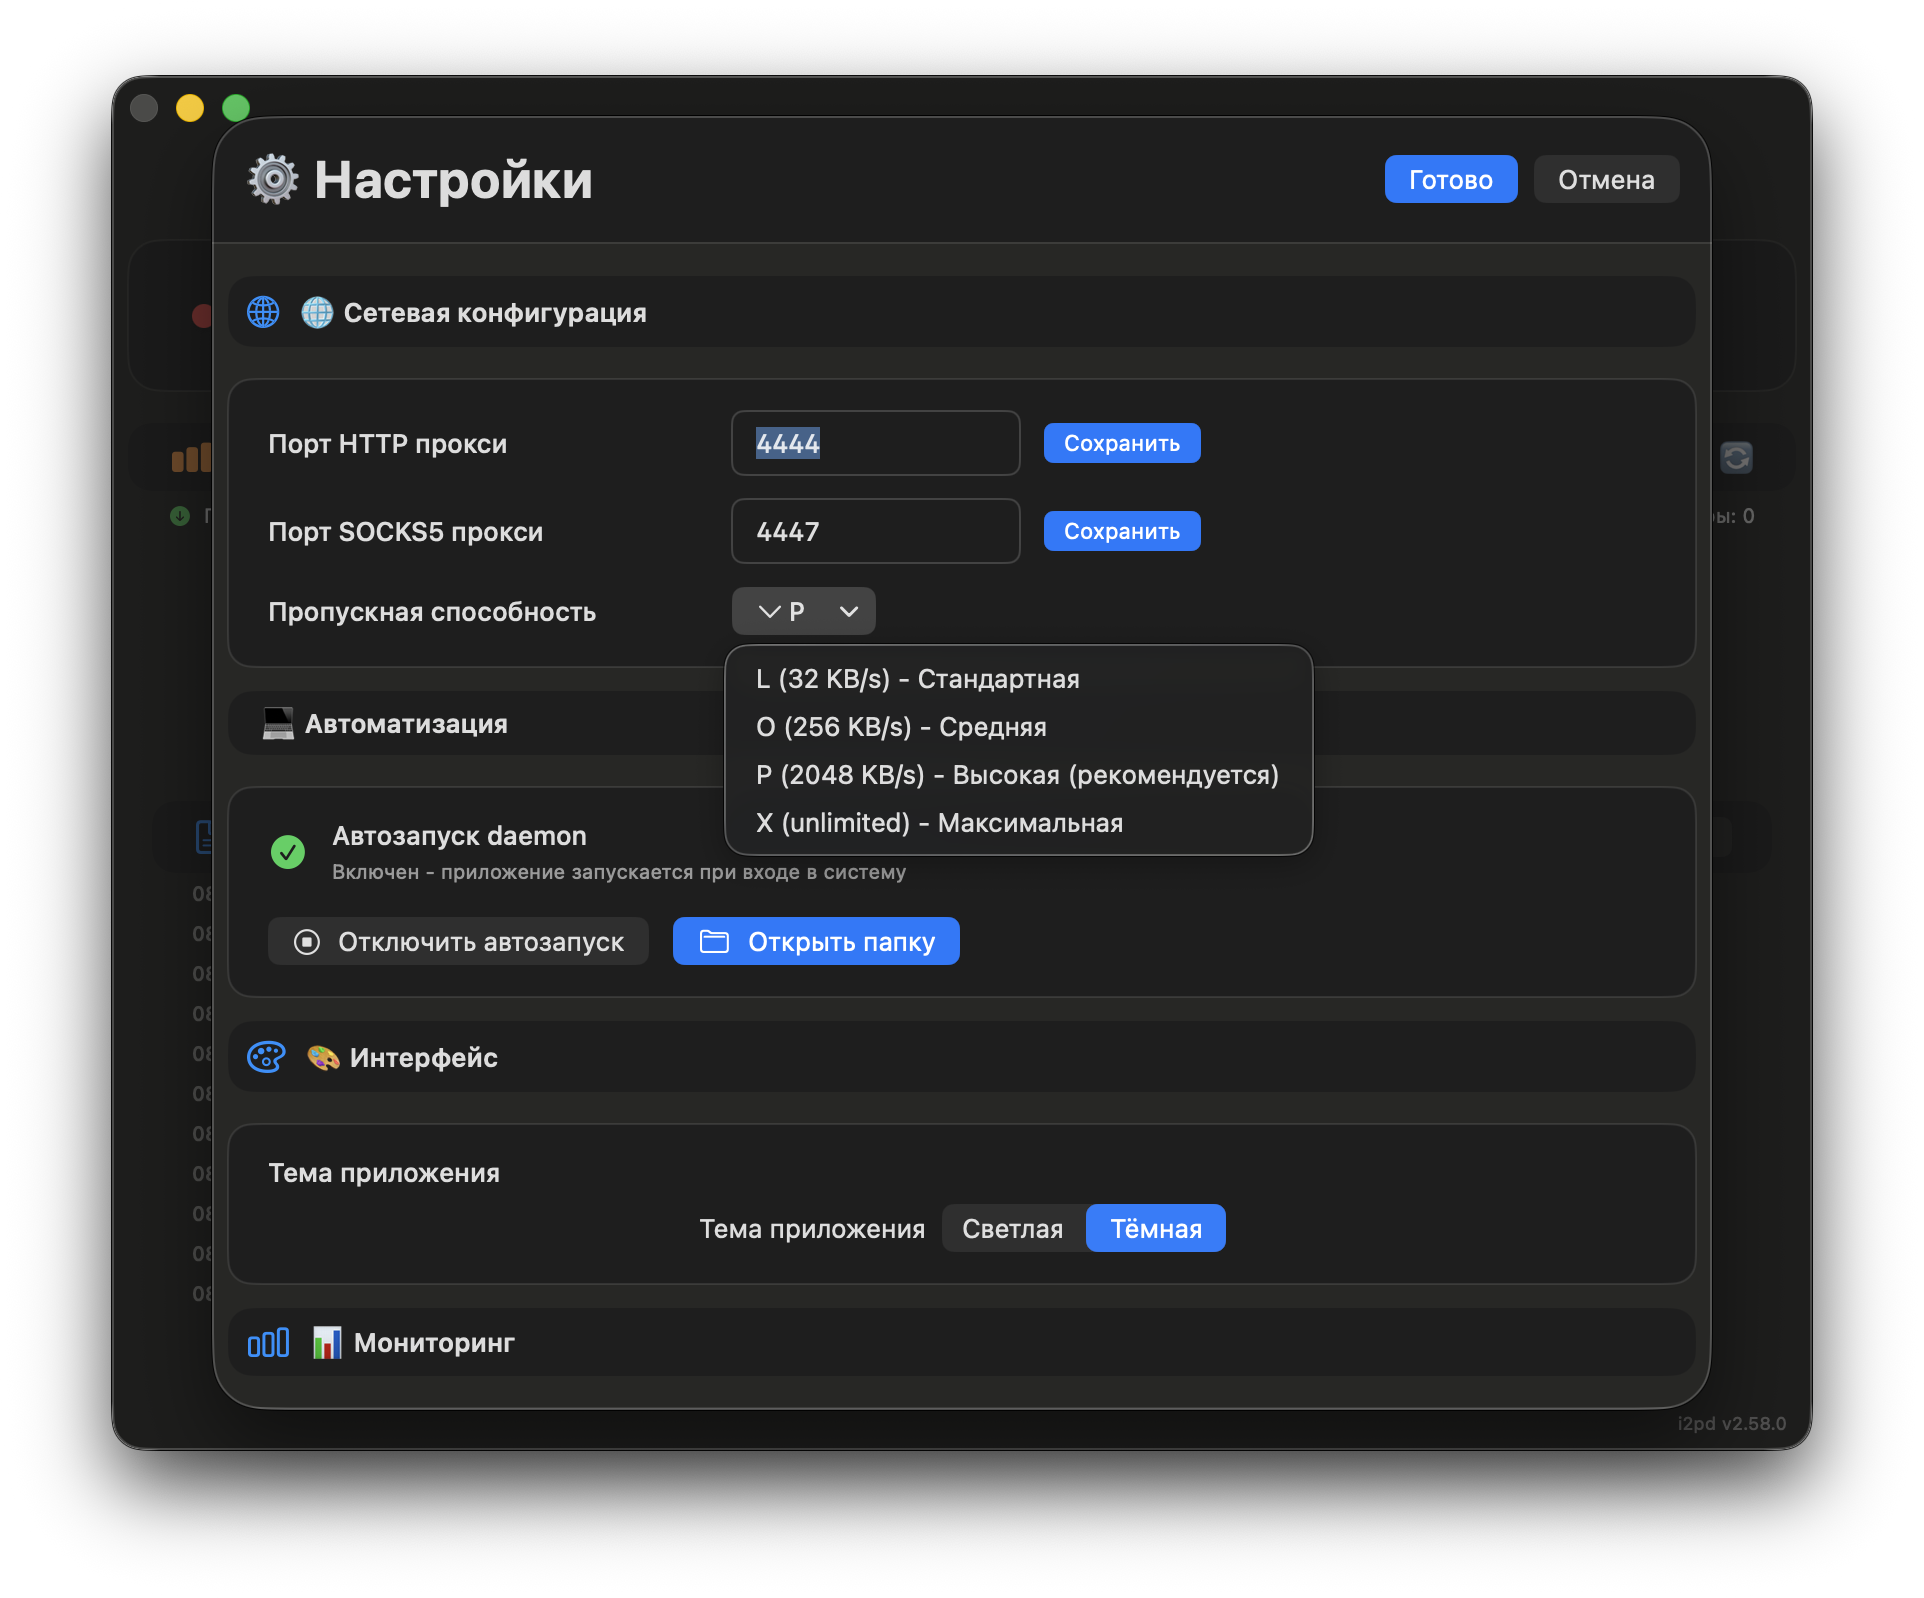
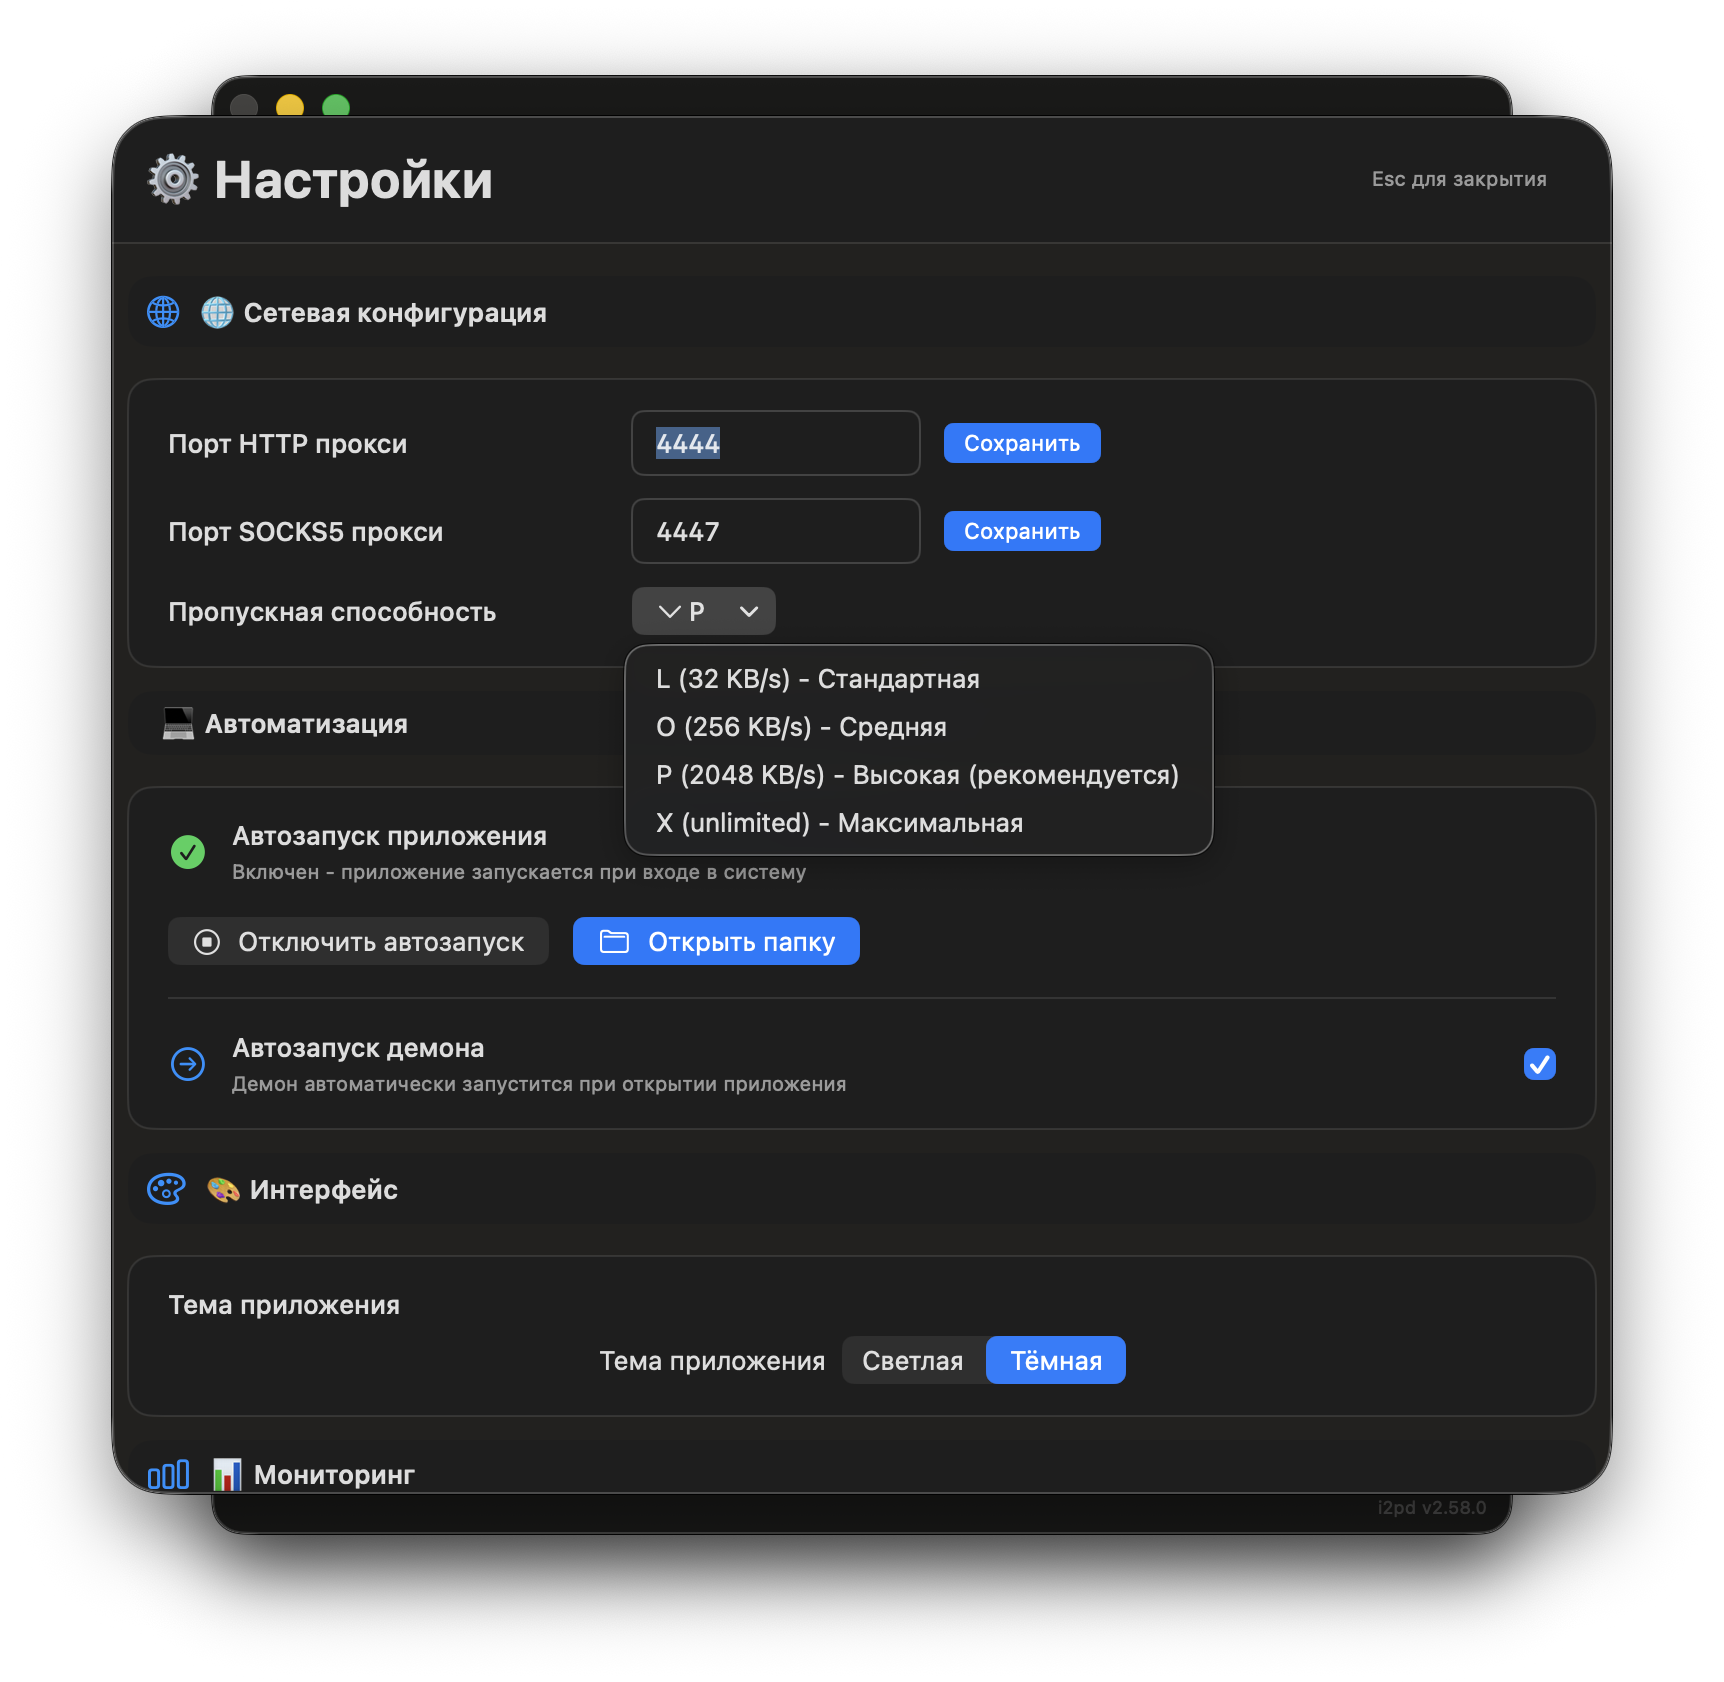
🔧 Исправления UI и улучшения документации
✨ Основные улучшения:
✅ Исправлено название настройки автозапуска приложения
✅ Обновлена документация README.md с новым скриншотом

🔧 Изменения в интерфейсе:
📝 Изменено "Автозапуск демона" → "Автозапуск приложения" для устранения путаницы
📝 Обновлено описание настройки LaunchAgent для ясности

📸 Обновления документации:
🖼 Добавлен четвертый скриншот screenshot4.png после второго
📋 Показана расширенная панель настроек с туннелями и Address Book
📖 Обновлено описание скриншота для лучшего понимания функционала

🎯 Результат:
- Четкое разделение между автозапуском приложения и автозапуском демона
- Улучшенная документация с полной демонстрацией возможностей
- Обновленные скриншоты отражают актуальный интерфейс

Changed region(s): [[0.0307, 0.0307, 0.9838, 0.9506], [0.3382, 0.7359, 0.6763, 0.8279], [0.5226, 0.2453, 0.6456, 0.368]]

diff --git a/Sources/i2pd-gui/AppCore.swift b/Sources/i2pd-gui/AppCore.swift
@@ -1582,7 +1582,7 @@ struct SettingsView: View {
                                     .font(.title2)
                                 
                                 VStack(alignment: .leading, spacing: 4) {
-                                    Text("Автозапуск daemon")
+                                    Text("Автозапуск приложения")
                                         .font(.system(.body, design: .default, weight: .medium))
                                         .foregroundColor(.primary)
                                     

diff --git a/README.md b/README.md
@@ -74,6 +74,9 @@
 ![I2P GUI Настройки](screenshot2.png)  
 *Окно настроек с интерактивными портами HTTP/SOCKS5, управлением пропускной способностью и автозапуском через LaunchAgent*
 
+![I2P GUI Расширенные настройки](screenshot4.png)
+*Расширенное окно настроек с конфигурацией туннелей, управлением Address Book и подписками адресной книги*
+
 <img src="screenshot3.png" width="50%">
 *Трей меню с галочками, показывающими текущее состояние демона*
 
